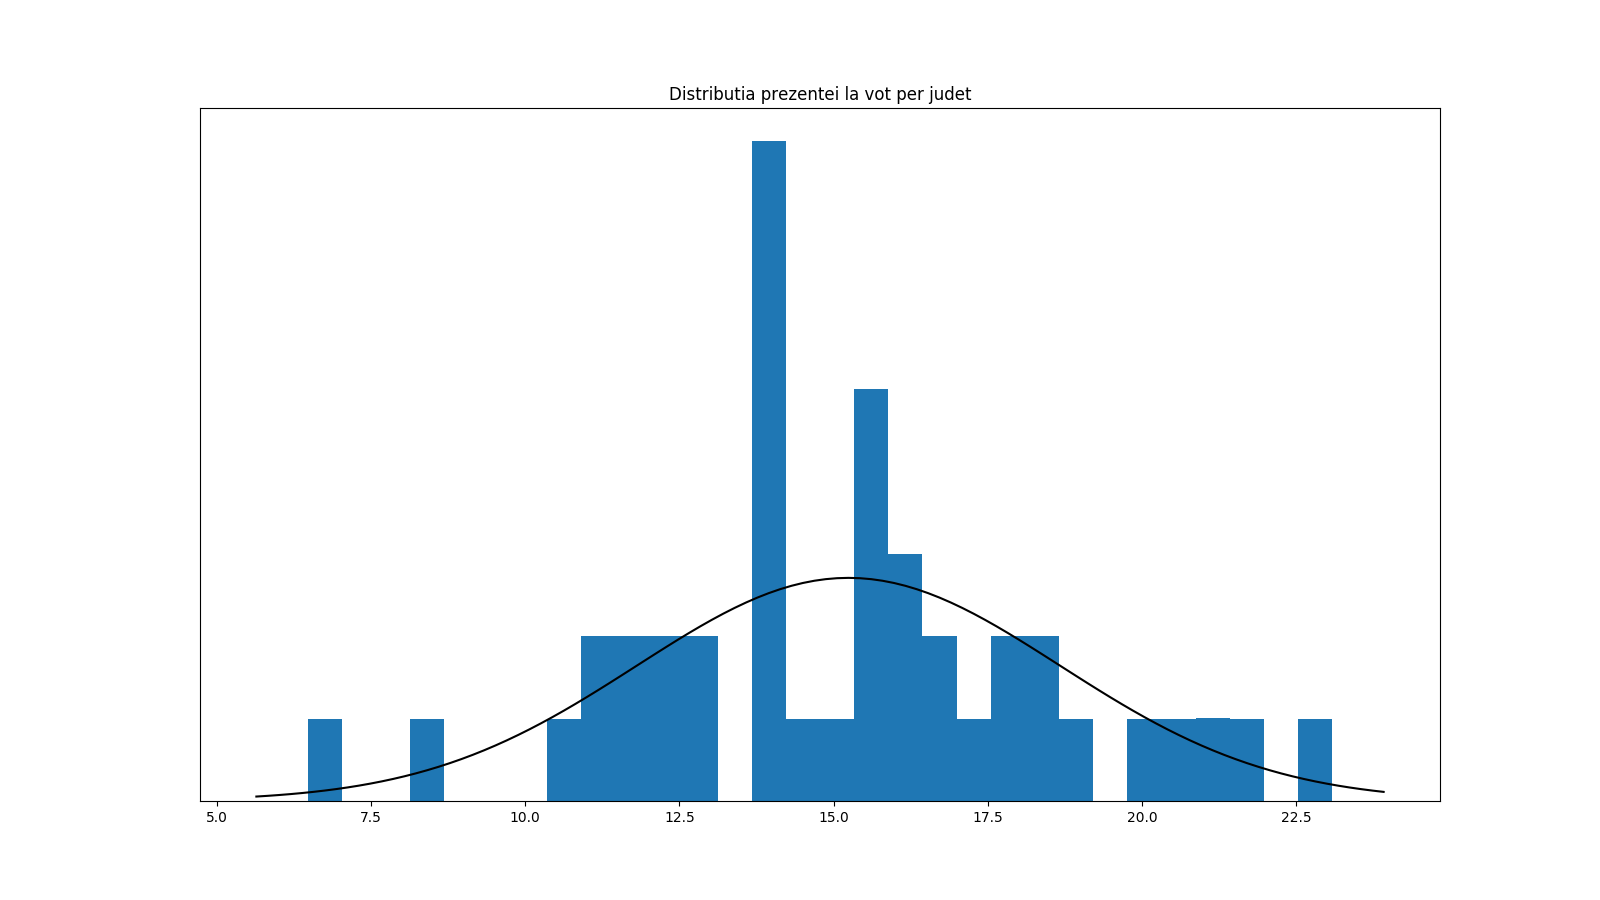
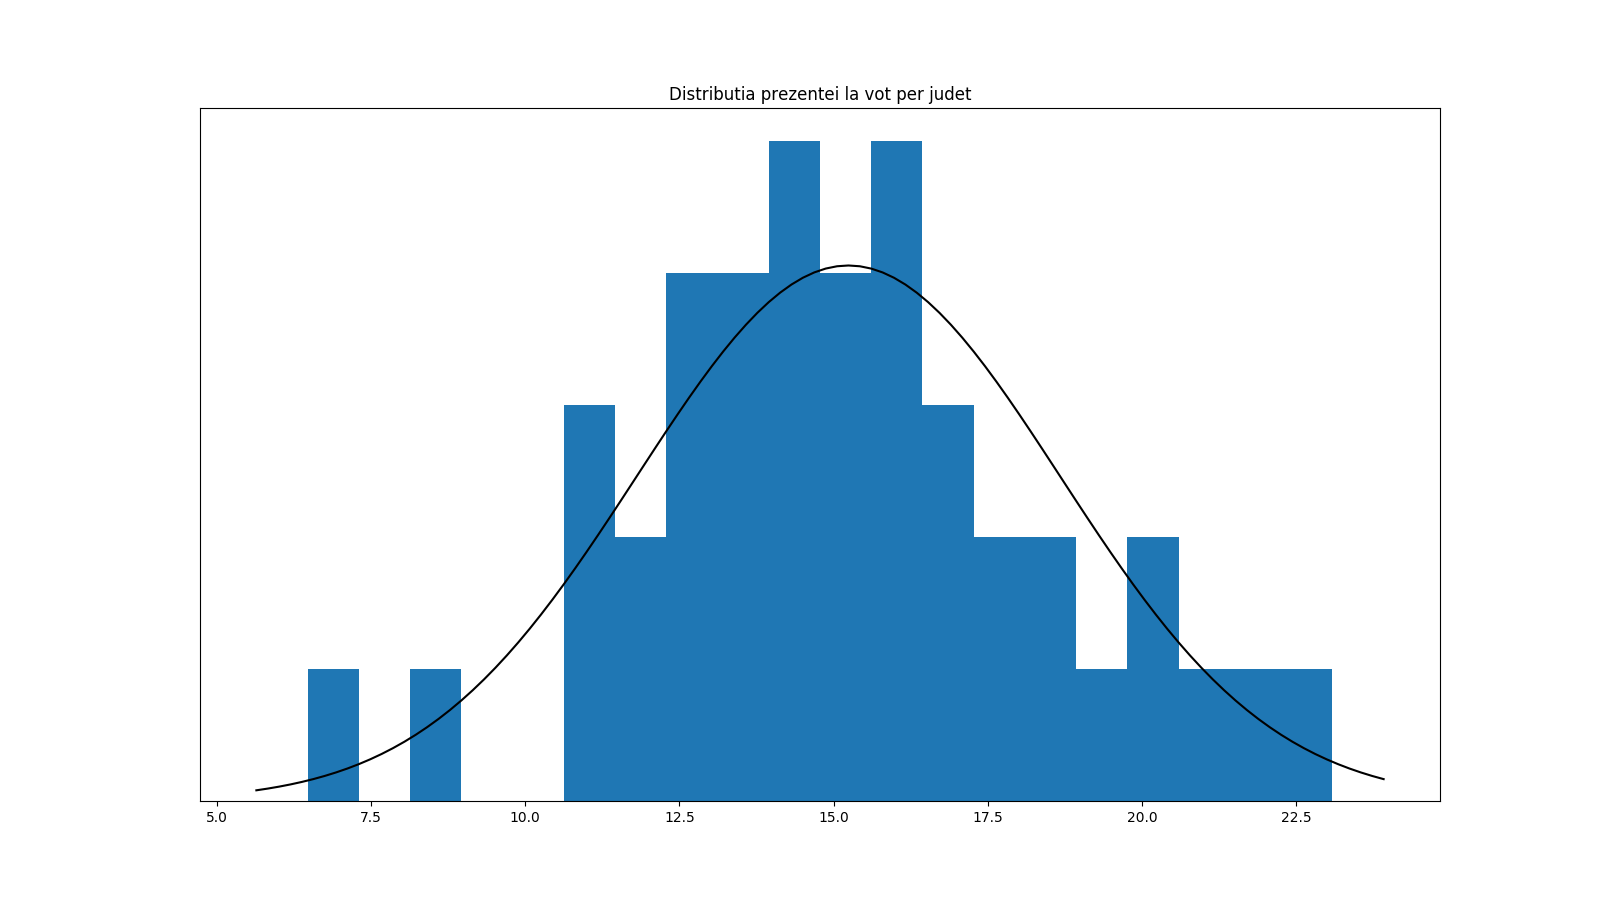
Changed bucket count

Changed region(s): [[0.1562, 0.1556, 0.8438, 0.9022]]

diff --git a/main.py b/main.py
@@ -49,7 +49,7 @@ print('[*] Creat fisier Prezenta_crescator.png')
 plt.clf()
 
 # Distributia prezentei la vot per judet
-plt.hist([mat_judete[i][4]*100 for i in range(len(mat_judete))], density=True, bins=30)
+plt.hist([mat_judete[i][4]*100 for i in range(len(mat_judete))], density=True, bins=20)
 mu, std = norm.fit([mat_judete[i][4]*100 for i in range(len(mat_judete))])
 plt.title('Distributia prezentei la vot per judet')
 xmin, xmax = plt.xlim()
